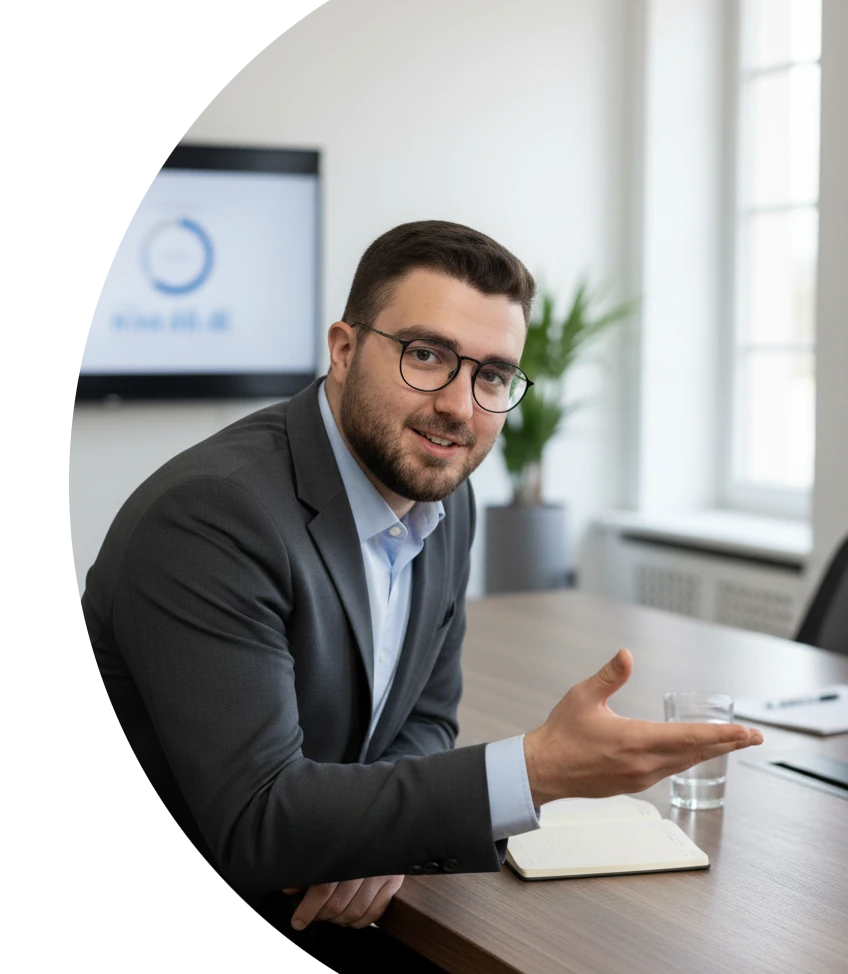
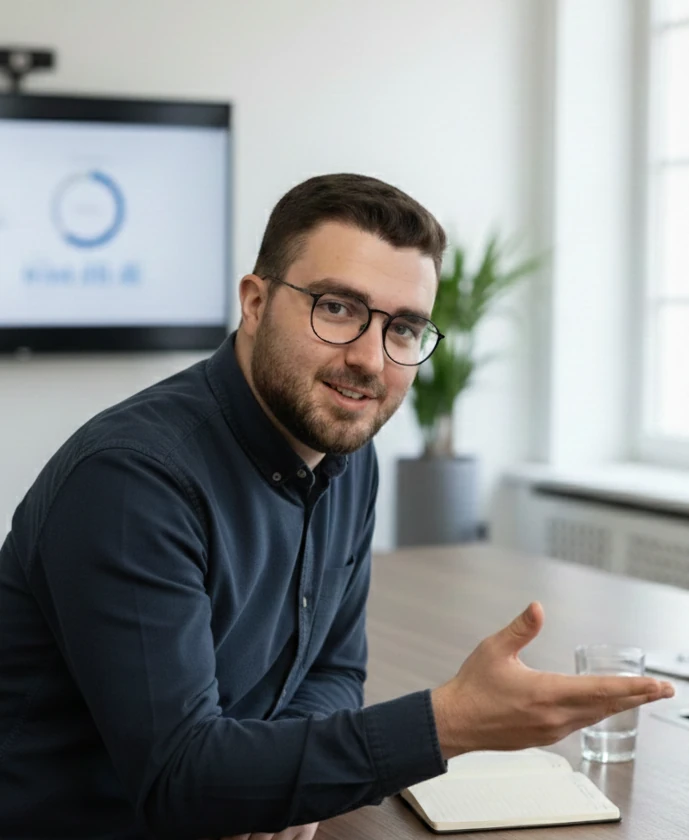
feat: Implement dynamic project detail pages with dedicated styling and refine project listing content.

diff --git a/src/styles/AbstrakProjectLayout.css b/src/styles/AbstrakProjectLayout.css
@@ -1,0 +1,54 @@
+#project-content h2 {
+    font-size: var(--h3);
+    font-family: var(--font-primary);
+    font-weight: 500;
+    letter-spacing: -0.025em;
+    color: var(--color-text-dark);
+}
+
+#project-content p {
+    font-size: var(--font-body-2);
+    line-height: var(--line-height-b1);
+    margin: 0 0 30px 0;
+}
+
+#project-content hr {
+    width: 100px;
+    color: var(--color-body);
+}
+
+#project-content ul {
+    padding: 0 0 30px 4rem;
+}
+
+#project-content a {
+    color: var(--color-rose);
+}
+
+#project-content table {
+    width: 100%;
+    border: 1px solid var(--color-body);
+}
+
+#project-content table tr {
+    border: 1px solid var(--color-body);
+}
+
+#project-content table th {
+    padding: 1rem;
+    background-color: #ffd3db;
+    color: var(--color-text-dark);
+    text-align: center;
+    text-decoration: underline;
+}
+
+#project-content table td {
+    padding: 1rem;
+    border: 1px solid var(--color-body);
+}
+
+.banner-cta {
+    position: relative;
+    top: 85px;
+    left: 20px;
+}

diff --git a/public/abstrak/assets/css/app.css b/public/abstrak/assets/css/app.css
@@ -9118,6 +9118,7 @@ body.op-modal-open {
     margin-bottom: 25px;
     padding-bottom: 20px;
     border-bottom: var(--border-lighter);
+    align-items: center;
 }
 
 .widget.widget-recent-post .single-post .post-thumbnail a {
